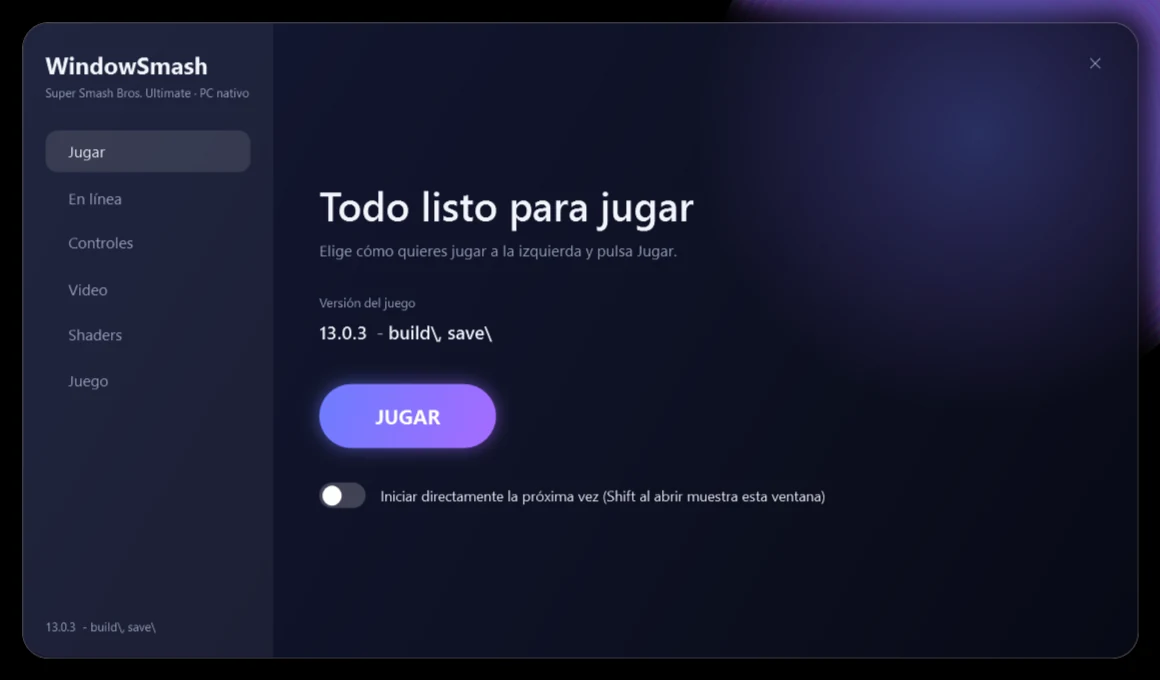
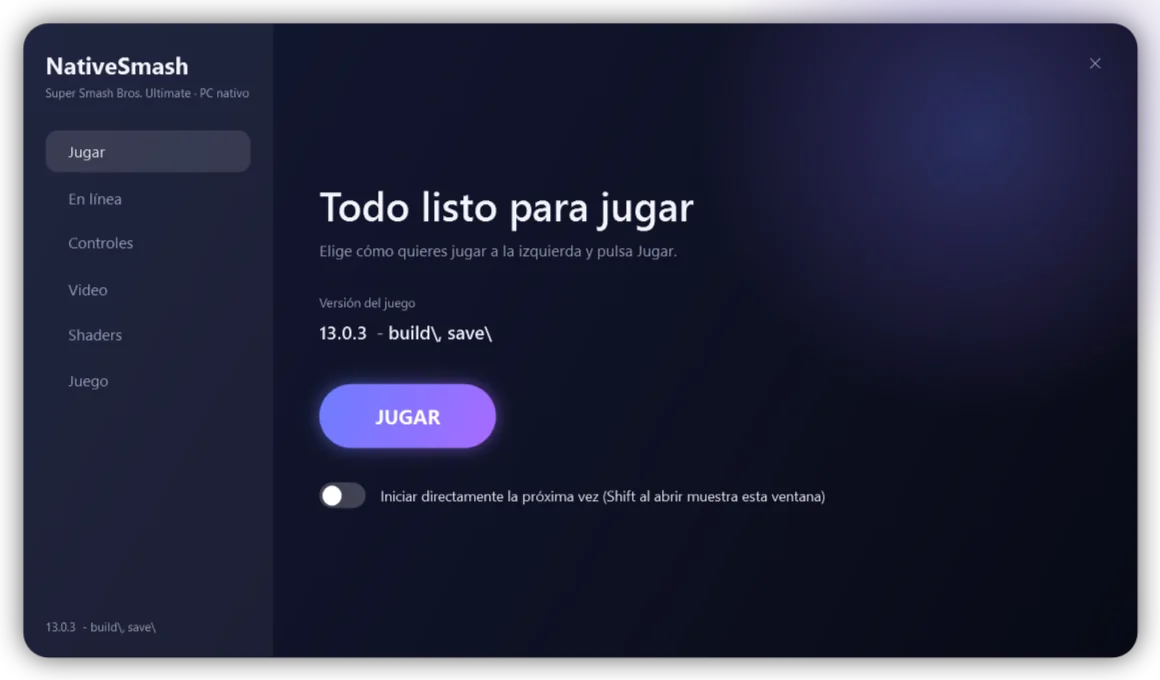
Site: a "What's new" section read from GitHub's releases, four new feature cards, current launcher screenshots

Changed region(s): [[0.0, 0.0, 1.0, 1.0]]

diff --git a/index.html b/index.html
@@ -128,6 +128,17 @@
     .cta .btn { justify-content: center; }
   }
   @media (prefers-reduced-motion: reduce) { * { transition: none !important; scroll-behavior: auto !important; } }
+  /* what's new: the notes of the newest releases, read from GitHub */
+  .notes { display: grid; gap: 14px; margin-top: 26px; }
+  .note { background: var(--veil); border-radius: 20px; padding: 22px 24px; box-shadow: inset 0 0 0 1px var(--edge); }
+  .note h3 { margin: 0 0 2px; font-size: 20px; }
+  .note .date { margin: 0 0 12px; color: var(--muted); font-size: 14px; }
+  .note p, .note li { color: var(--muted); font-size: 15px; margin: 0 0 10px; }
+  .note ul { margin: 0 0 10px; padding-left: 20px; }
+  .note b { color: var(--ink); font-weight: 600; }
+  .note code { background: rgba(255,255,255,.08); padding: 1px 6px; border-radius: 6px; font-size: 13px; color: var(--ink); }
+  .note summary { cursor: pointer; font-weight: 600; font-size: 18px; }
+  .note details[open] summary { margin-bottom: 10px; }
 </style>
 </head>
 <body>
@@ -137,6 +148,7 @@
     <a class="brand" href="#top"><span class="logo"><svg viewBox="0 0 24 24" fill="none" stroke="white" stroke-width="3" stroke-linecap="round" stroke-linejoin="round"><path d="M7 19V5l10 14V5"/></svg></span>NativeSmash</a>
     <nav>
       <a class="link" href="#funciones"><span data-l="es">Funciones</span><span data-l="en">Features</span></a>
+      <a class="link" href="#novedades"><span data-l="es">Novedades</span><span data-l="en">What's new</span></a>
       <a class="link" href="#instalar"><span data-l="es">Cómo se instala</span><span data-l="en">How to install</span></a>
       <a class="link" href="#creditos"><span data-l="es">Créditos</span><span data-l="en">Credits</span></a>
       <a class="btn soft" style="padding:9px 18px;font-size:15px" href="https://github.com/gomeztorressandygabriel-cloud/NativeSmash" rel="noopener">GitHub</a>
@@ -206,6 +218,22 @@
         <div class="ico"><svg viewBox="0 0 24 24" fill="none" stroke="#c9d0ff" stroke-width="2" stroke-linecap="round" stroke-linejoin="round"><path d="M21 12a9 9 0 1 1-3-6.7M21 4v5h-5"/></svg></div>
         <h3><span data-l="es">Actualizaciones desde GitHub</span><span data-l="en">Updates from GitHub</span></h3>
         <p><span data-l="es">El launcher avisa cuando hay una versión nueva y la instala con un clic, sin tocar tus ajustes.</span><span data-l="en">The launcher tells you when a new version is out and installs it in one click, without touching your settings.</span></p></article>
+      <article class="card"><span class="tag ok"><span data-l="es">Listo</span><span data-l="en">Ready</span></span>
+        <div class="ico"><svg viewBox="0 0 24 24" fill="none" stroke="#c9d0ff" stroke-width="2" stroke-linecap="round" stroke-linejoin="round"><rect x="2" y="6" width="20" height="12" rx="3"/><path d="M7 10v4M5 12h4M16 11h.01M18 13h.01"/></svg></div>
+        <h3><span data-l="es">Mandos configurables</span><span data-l="en">Configurable controllers</span></h3>
+        <p><span data-l="es">Elige cómo juega cada mando desde el launcher: estilo, zona muerta, vibración, gatillos y cada botón, pulsándolo en el propio mando.</span><span data-l="en">Choose how each controller plays from the launcher: style, dead zone, rumble, triggers and every button, by pressing it on the controller itself.</span></p></article>
+      <article class="card"><span class="tag ok"><span data-l="es">Listo</span><span data-l="en">Ready</span></span>
+        <div class="ico"><svg viewBox="0 0 24 24" fill="none" stroke="#c9d0ff" stroke-width="2" stroke-linecap="round" stroke-linejoin="round"><path d="M4 18V8m5 10V4m5 14v-6m5 6V9"/></svg></div>
+        <h3><span data-l="es">Memoria estable</span><span data-l="en">Steady memory</span></h3>
+        <p><span data-l="es">Arreglamos una fuga de memoria en gráficas Intel y el juego descarga los shaders que no usa: ya no se ralentiza con el paso del tiempo.</span><span data-l="en">We fixed a memory leak on Intel graphics and the game lets go of the shaders it is not using: it no longer slows down as time goes by.</span></p></article>
+      <article class="card"><span class="tag ok"><span data-l="es">Listo</span><span data-l="en">Ready</span></span>
+        <div class="ico"><svg viewBox="0 0 24 24" fill="none" stroke="#c9d0ff" stroke-width="2" stroke-linecap="round" stroke-linejoin="round"><path d="M3 12h4l3-8 4 16 3-8h4"/></svg></div>
+        <h3><span data-l="es">Monitor de rendimiento</span><span data-l="en">Performance monitor</span></h3>
+        <p><span data-l="es">Un monitor opcional mide cada segundo los fotogramas, el procesador, la memoria y la gráfica, para encontrar qué frena el juego en tu PC.</span><span data-l="en">An optional monitor measures the frames, the processor, the memory and the graphics card every second, to find what slows the game down on your PC.</span></p></article>
+      <article class="card"><span class="tag ok"><span data-l="es">Listo</span><span data-l="en">Ready</span></span>
+        <div class="ico"><svg viewBox="0 0 24 24" fill="none" stroke="#c9d0ff" stroke-width="2" stroke-linecap="round" stroke-linejoin="round"><rect x="3" y="3" width="18" height="18" rx="3"/><path d="M3 12h18M12 3v18"/></svg></div>
+        <h3><span data-l="es">Calidad de texturas</span><span data-l="en">Texture quality</span></h3>
+        <p><span data-l="es">Automática, Alta, Media o Baja: en un PC con poca RAM las texturas ocupan menos y el juego va más desahogado.</span><span data-l="en">Automatic, High, Medium or Low: on a PC with little RAM the textures take less and the game breathes easier.</span></p></article>
     </div>
 
     <div class="two">
@@ -222,6 +250,13 @@
       </div>
       <img src="img/launcher-pads.webp" width="1160" height="680" alt="La página de controles del launcher" loading="lazy">
     </div>
+  </div></section>
+
+  <section id="novedades"><div class="wrap">
+    <h2><span data-l="es">Novedades</span><span data-l="en">What's new</span></h2>
+    <p class="sub"><span data-l="es">Lo que trae cada versión, leído directamente de GitHub.</span><span data-l="en">What each version brings, read straight from GitHub.</span></p>
+    <div class="notes" id="notes"><div class="note"><p><span data-l="es">Cargando las novedades…</span><span data-l="en">Loading what's new…</span></p></div></div>
+    <p style="margin-top:14px"><a href="https://github.com/gomeztorressandygabriel-cloud/NativeSmash/releases" rel="noopener"><span data-l="es">Ver todas las versiones en GitHub</span><span data-l="en">See every version on GitHub</span></a></p>
   </div></section>
 
   <section id="instalar"><div class="wrap">
@@ -288,6 +323,50 @@
         });
       })
       .catch(function () {});
+  })();
+  /* What's new: the notes of the newest releases, from GitHub. A release's text has a Spanish part and an English one
+     (after "**Español**" and "**English**"); each is shown in its language. Nothing here changes with a new version. */
+  (function () {
+    var repo = 'gomeztorressandygabriel-cloud/NativeSmash', box = document.getElementById('notes');
+    if (!box) return;
+    function esc(t) { return t.replace(/&/g, '&amp;').replace(/</g, '&lt;').replace(/>/g, '&gt;'); }
+    function inline(t) { return esc(t).replace(/\*\*(.+?)\*\*/g, '<b>$1</b>').replace(/\*([^*]+)\*/g, '<i>$1</i>').replace(/`([^`]+)`/g, '<code>$1</code>'); }
+    function markdown(text) {
+      var out = '', list = false;
+      text.split('\n').forEach(function (line) {
+        line = line.trim();
+        var li = /^[-*]\s+(.*)$/.exec(line);
+        if (list && !li) { out += '</ul>'; list = false; }
+        if (!line) return;
+        if (li) { if (!list) { out += '<ul>'; list = true; } out += '<li>' + inline(li[1]) + '</li>'; }
+        else if (!/^#/.test(line)) out += '<p>' + inline(line) + '</p>';
+      });
+      return out + (list ? '</ul>' : '');
+    }
+    function part(body, lang) {
+      var es = body.indexOf('**Español**'), en = body.indexOf('**English**');
+      if (es < 0 || en < 0) return body;
+      return lang === 'es' ? body.slice(es + 11, en) : body.slice(en + 11);
+    }
+    function date(iso, lang) {
+      try { return new Date(iso).toLocaleDateString(lang === 'es' ? 'es' : 'en', { year: 'numeric', month: 'long', day: 'numeric' }); } catch (e) { return ''; }
+    }
+    fetch('https://api.github.com/repos/' + repo + '/releases?per_page=4', { headers: { Accept: 'application/vnd.github+json' } })
+      .then(function (r) { return r.ok ? r.json() : Promise.reject(); })
+      .then(function (list) {
+        var html = '';
+        list.filter(function (r) { return !r.draft; }).forEach(function (r, i) {
+          ['es', 'en'].forEach(function (lang) {
+            var inner = '<h3>' + esc(r.name || r.tag_name) + '</h3><p class="date">' + date(r.published_at, lang) + '</p>' + markdown(part(r.body || '', lang));
+            html += '<div class="note" data-l="' + lang + '">' + (i === 0 ? inner
+              : '<details><summary>' + esc(r.name || r.tag_name) + '</summary><p class="date">' + date(r.published_at, lang) + '</p>' + markdown(part(r.body || '', lang)) + '</details>') + '</div>';
+          });
+        });
+        if (html) box.innerHTML = html;
+      })
+      .catch(function () {
+        box.innerHTML = '<div class="note"><p><span data-l="es">No se pudieron cargar las novedades. Míralas en GitHub.</span><span data-l="en">The notes could not be loaded. See them on GitHub.</span></p></div>';
+      });
   })();
 </script>
 </body>
